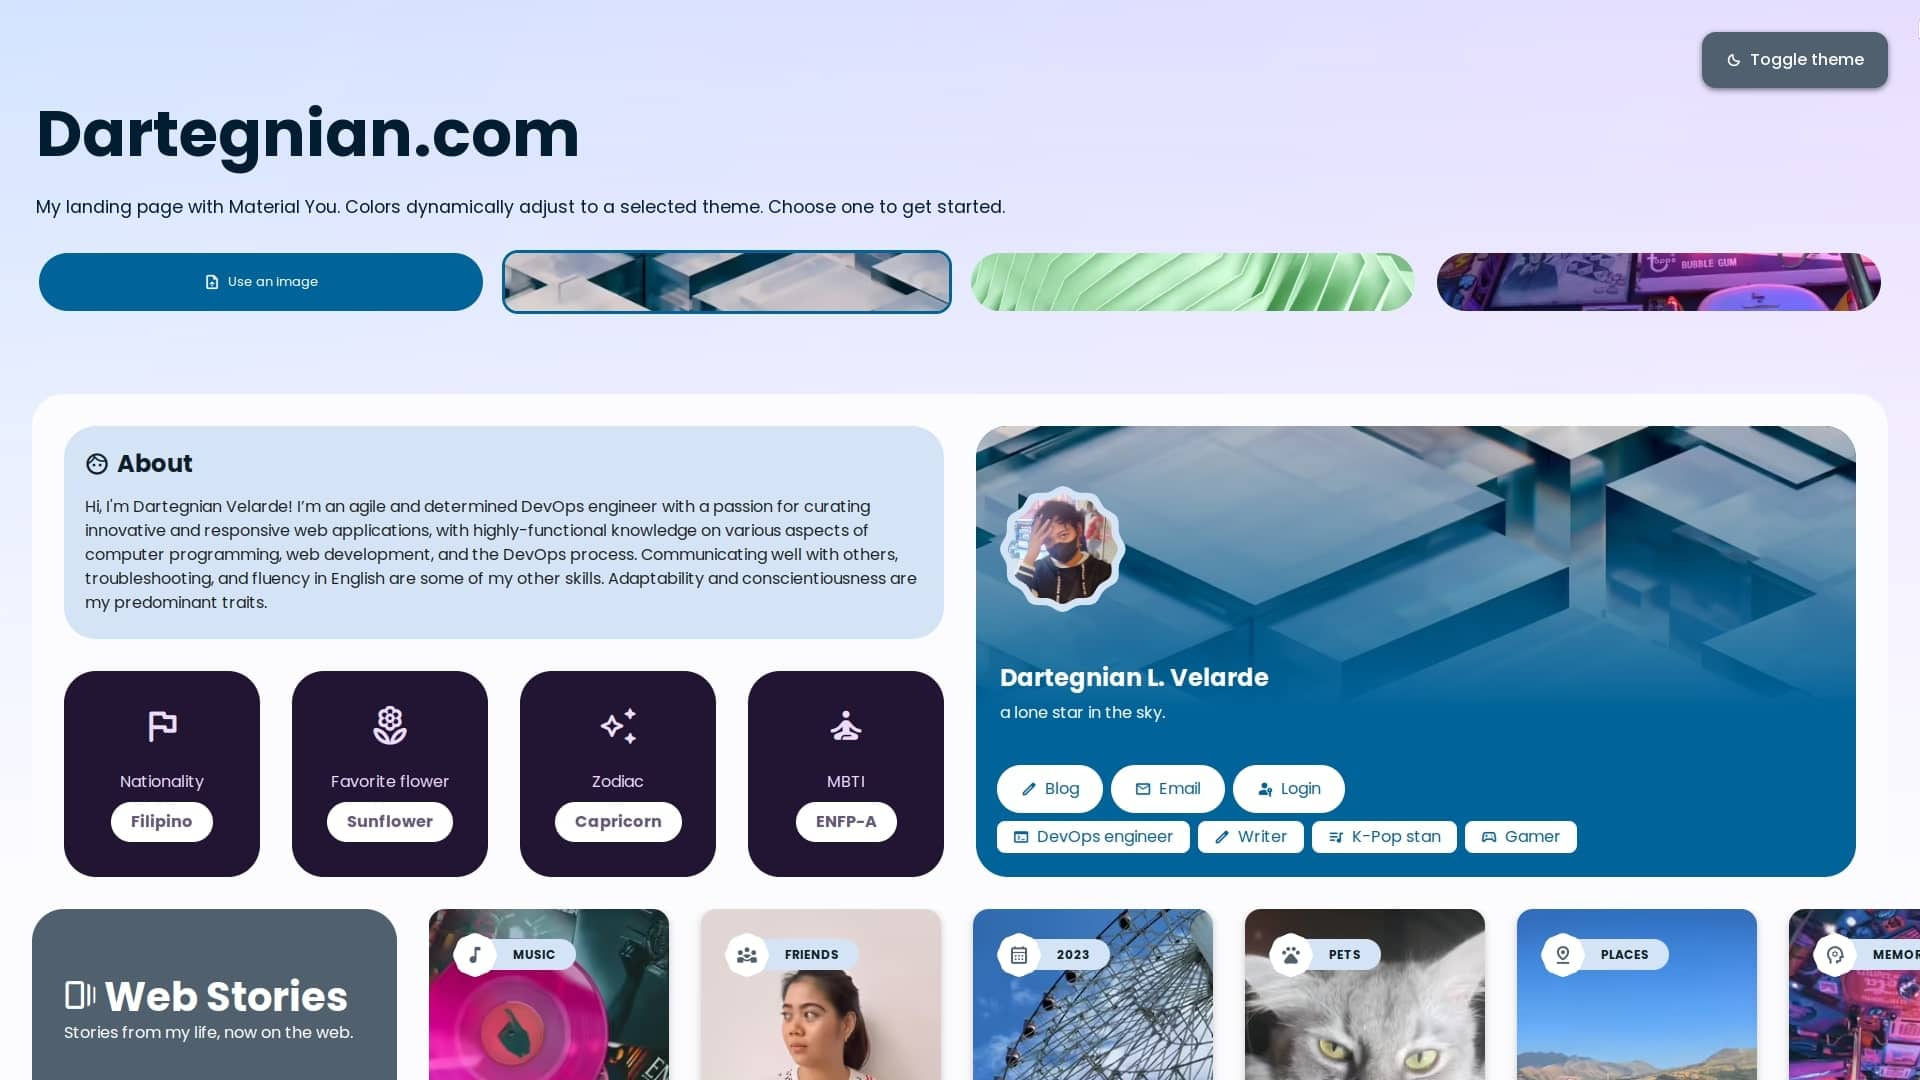
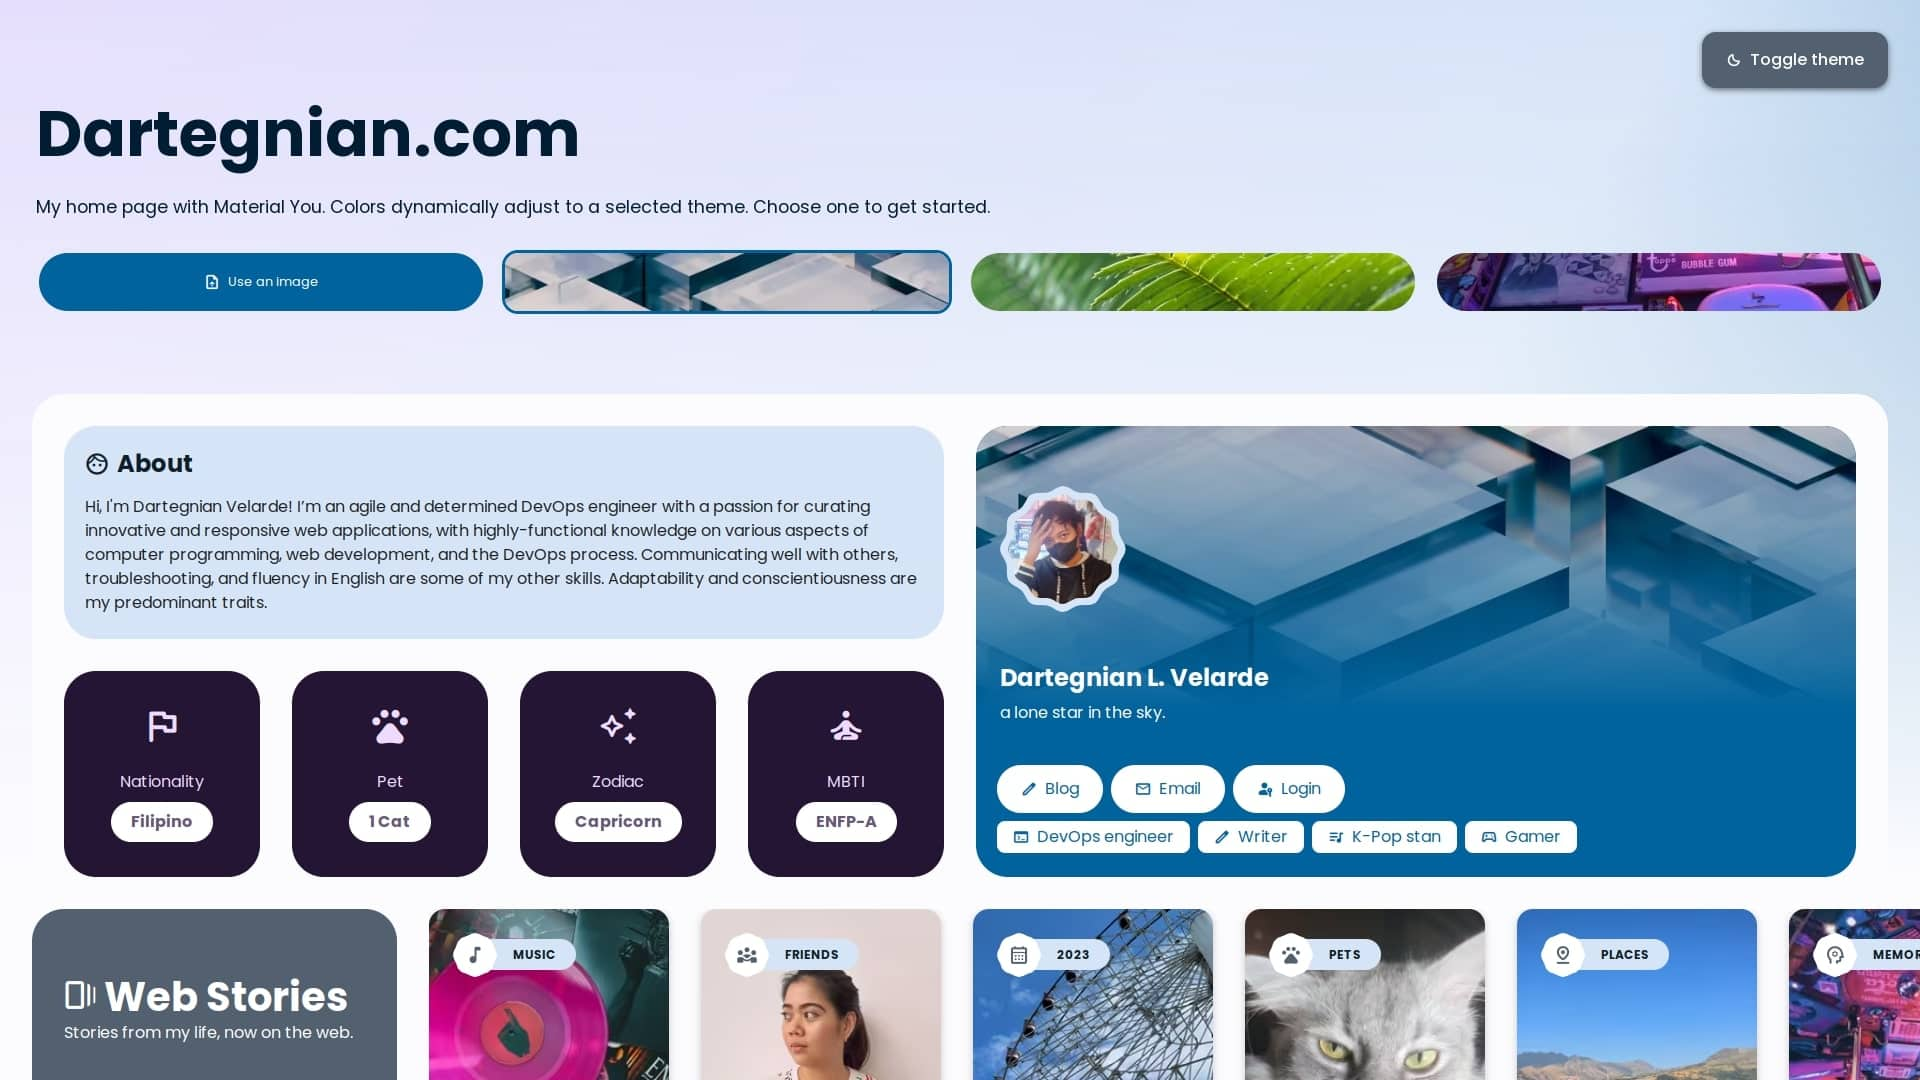
Sync code between homepage and portfolio

Changed region(s): [[0.875, 0.0, 1.0, 0.5806], [0.0312, 0.1833, 0.75, 0.3056], [0.1562, 0.6417, 0.25, 0.7944]]

diff --git a/src/app/components/theme-switcher/theme-switcher.component.ts b/src/app/components/theme-switcher/theme-switcher.component.ts
@@ -1,44 +1,48 @@
-import { Component, OnInit, inject } from '@angular/core';
+import { isPlatformBrowser } from '@angular/common';
+import { Component, Injector, OnInit, PLATFORM_ID, afterNextRender, inject } from '@angular/core';
 import { AccentService } from '@services/accent-service.service';
 import { IdbService } from '@services/idb.service';
-
 
 @Component({
     selector: 'theme-switcher',
     templateUrl: './theme-switcher.component.html',
     styleUrls: ['./theme-switcher.component.scss'],
-    standalone: true,
     imports: []
 })
 export class ThemeSwitcherComponent implements OnInit {
 	private idb = inject(IdbService);
 	private accent = inject(AccentService);
+	private platformId = inject<Object>(PLATFORM_ID);
+	private readonly injector = inject(Injector);
 
 	themeMode: "dark" | "light" = "light";
-	prefersDarkScheme: MediaQueryList;
-	isDarkMode: boolean;
+	prefersDarkScheme: MediaQueryList | null | undefined;
+	isDarkMode: boolean | undefined;
 	prefersDarkSchemeFromIdb: "dark" | "light" = "light";
-
-	/** Inserted by Angular inject() migration for backwards compatibility */
-	constructor(...args: unknown[]);
-
+	isBrowser: boolean = false;
 
 	constructor() {
-		this.prefersDarkScheme = window.matchMedia("(prefers-color-scheme: dark)");
-		this.isDarkMode = this.prefersDarkScheme.matches;
+		this.isBrowser = isPlatformBrowser(this.platformId);
+
+		if (this.isBrowser) {
+			this.prefersDarkScheme = window.matchMedia("(prefers-color-scheme: dark)");
+			this.isDarkMode = this.prefersDarkScheme!.matches;
+		}
 	}
 
 	async ngOnInit(): Promise<void> {
-		this.idb.connectToIDB();
-		this.prefersDarkSchemeFromIdb = (await this.idb.getData("Material You", "preferredColorScheme"));
+		if (this.isBrowser) {
+			this.idb.connectToIDB();
+			this.prefersDarkSchemeFromIdb = (await this.idb.getData("Material You", "preferredColorScheme"));
 
-		if (this.prefersDarkSchemeFromIdb) {
-			this.themeMode = this.prefersDarkSchemeFromIdb;
-			this.setThemeMode(this.themeMode);
-		} else if (this.isDarkMode && !this.prefersDarkSchemeFromIdb) {
-			this.setThemeMode("dark");
-		} else {
-			this.setThemeMode("light");
+			if (this.prefersDarkSchemeFromIdb) {
+				this.themeMode = this.prefersDarkSchemeFromIdb;
+				this.setThemeMode(this.themeMode);
+			} else if (this.isDarkMode && !this.prefersDarkSchemeFromIdb) {
+				this.setThemeMode("dark");
+			} else {
+				this.setThemeMode("light");
+			}
 		}
 	}
 

diff --git a/src/app/components/updating-snackbar/updating-snackbar.component.ts b/src/app/components/updating-snackbar/updating-snackbar.component.ts
@@ -6,11 +6,10 @@ import { Subscription } from 'rxjs';
 import { LoadingCircleComponent } from "@components/loading-circle/loading-circle.component";
 
 @Component({
-	selector: 'updating-snackbar',
-	standalone: true,
-	imports: [LoadingCircleComponent],
-	templateUrl: './updating-snackbar.component.html',
-	styleUrl: './updating-snackbar.component.scss'
+    selector: 'updating-snackbar',
+    imports: [LoadingCircleComponent],
+    templateUrl: './updating-snackbar.component.html',
+    styleUrl: './updating-snackbar.component.scss'
 })
 export class UpdatingSnackbarComponent implements AfterViewInit, OnDestroy {
 	private sw = inject(SwUpdate);
@@ -84,7 +83,7 @@ export class UpdatingSnackbarComponent implements AfterViewInit, OnDestroy {
 
 				if (!this.sw.isEnabled) {
 					this.iconText = "report";
-				this.updateText = "Updates unavailable";
+					this.updateText = "Updates unavailable";
 					console.log("Service worker disabled")
 					this.isSpinnerShown = false;
 					setTimeout(() => {

diff --git a/src/app/services/meta.service.ts b/src/app/services/meta.service.ts
@@ -70,7 +70,7 @@ export class MetaService {
 	restoreOriginalSiteInfo() {
 		const metaTags = {
 			description: "The website and home page of Dartegnian Velarde—dartegnian.com. Includes a mood calendar, journal, MBTI, and other info.",
-			keywords: "Dartegnian, Dartegnian Velarde, Velarde Dartegnian, Dartegnian L. Velarde, Portfolio, Landing Page, About Me, Home Page, Mood Calendar, Journal, Web Journal, MBTI",
+			keywords: "Dartegnian, Dartegnian Velarde, Velarde Dartegnian, Dartegnian L. Velarde, Portfolio, Home Page, About Me, Home Page, Mood Calendar, Journal, Web Journal, MBTI",
 			title: "Dartegnian L. Velarde | DevOps Engineer",
 			image: "https://dartegnian.com/assets/img/main-min-1024.jpg",
 			imageAlt: "Material You-style introduction banner for Dartegnian.com",

diff --git a/src/app/services/accent-service.service.ts b/src/app/services/accent-service.service.ts
@@ -28,11 +28,13 @@ export class AccentService {
 	customImageSubscription: Subject<string | ArrayBuffer>;
 
 	isPlaying = false;
+	isPlayingSubscription: Subject<boolean>;
 
 	constructor() {
 		this.themeSubscription = new Subject();
 		this.accentSubscription = new Subject();
 		this.customImageSubscription = new Subject();
+		this.isPlayingSubscription = new Subject();
 	}
 
 	public setAccent(index: number) {
@@ -142,7 +144,6 @@ export class AccentService {
 		}
 	}*/
 
-
 	async setM3ColorAndTarget(
 		parentOfImg: string,
 		target: string | HTMLElement,
@@ -188,5 +189,6 @@ export class AccentService {
 
 	setIsPlaying(isPlaying: boolean): void {
 		this.isPlaying = isPlaying;
+		this.isPlayingSubscription.next(isPlaying);
 	}
 }

diff --git a/src/assets/scss/material-you.scss b/src/assets/scss/material-you.scss
@@ -15,7 +15,6 @@
 }
 
 @mixin material-button {
-	@include theme-transition();
 	display: flex;
 	align-items: center;
 	justify-content: center;
